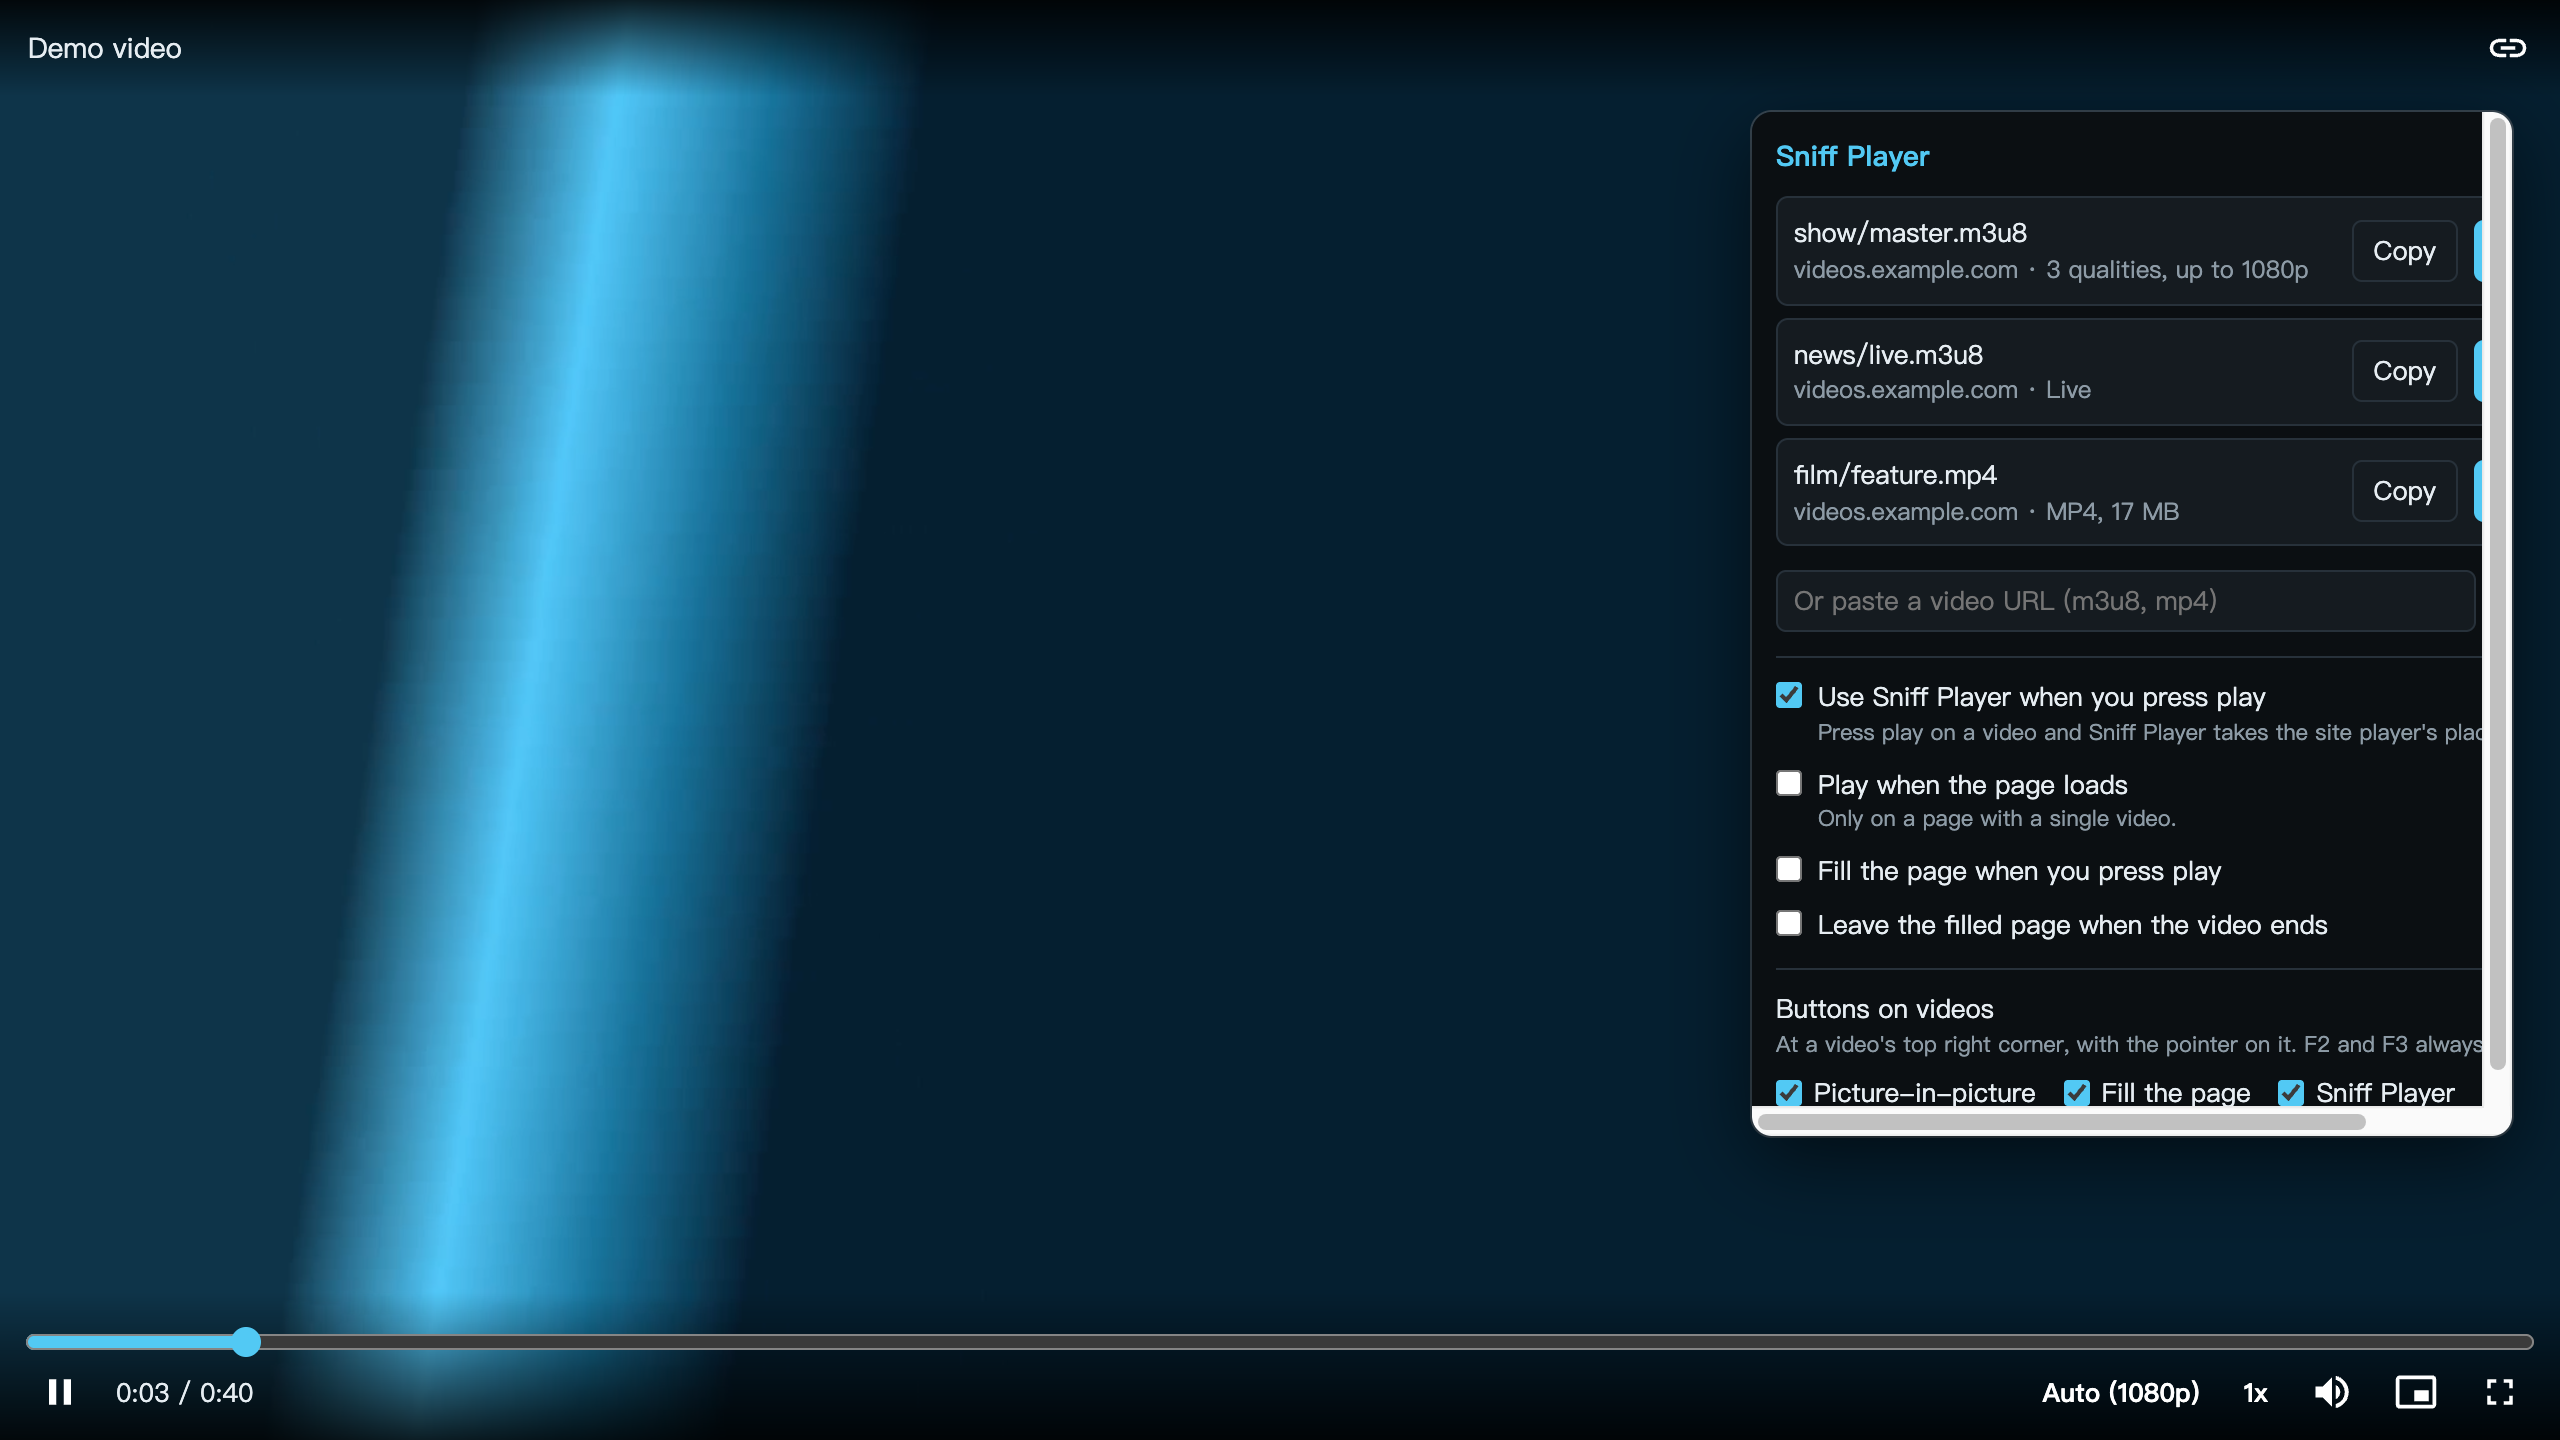
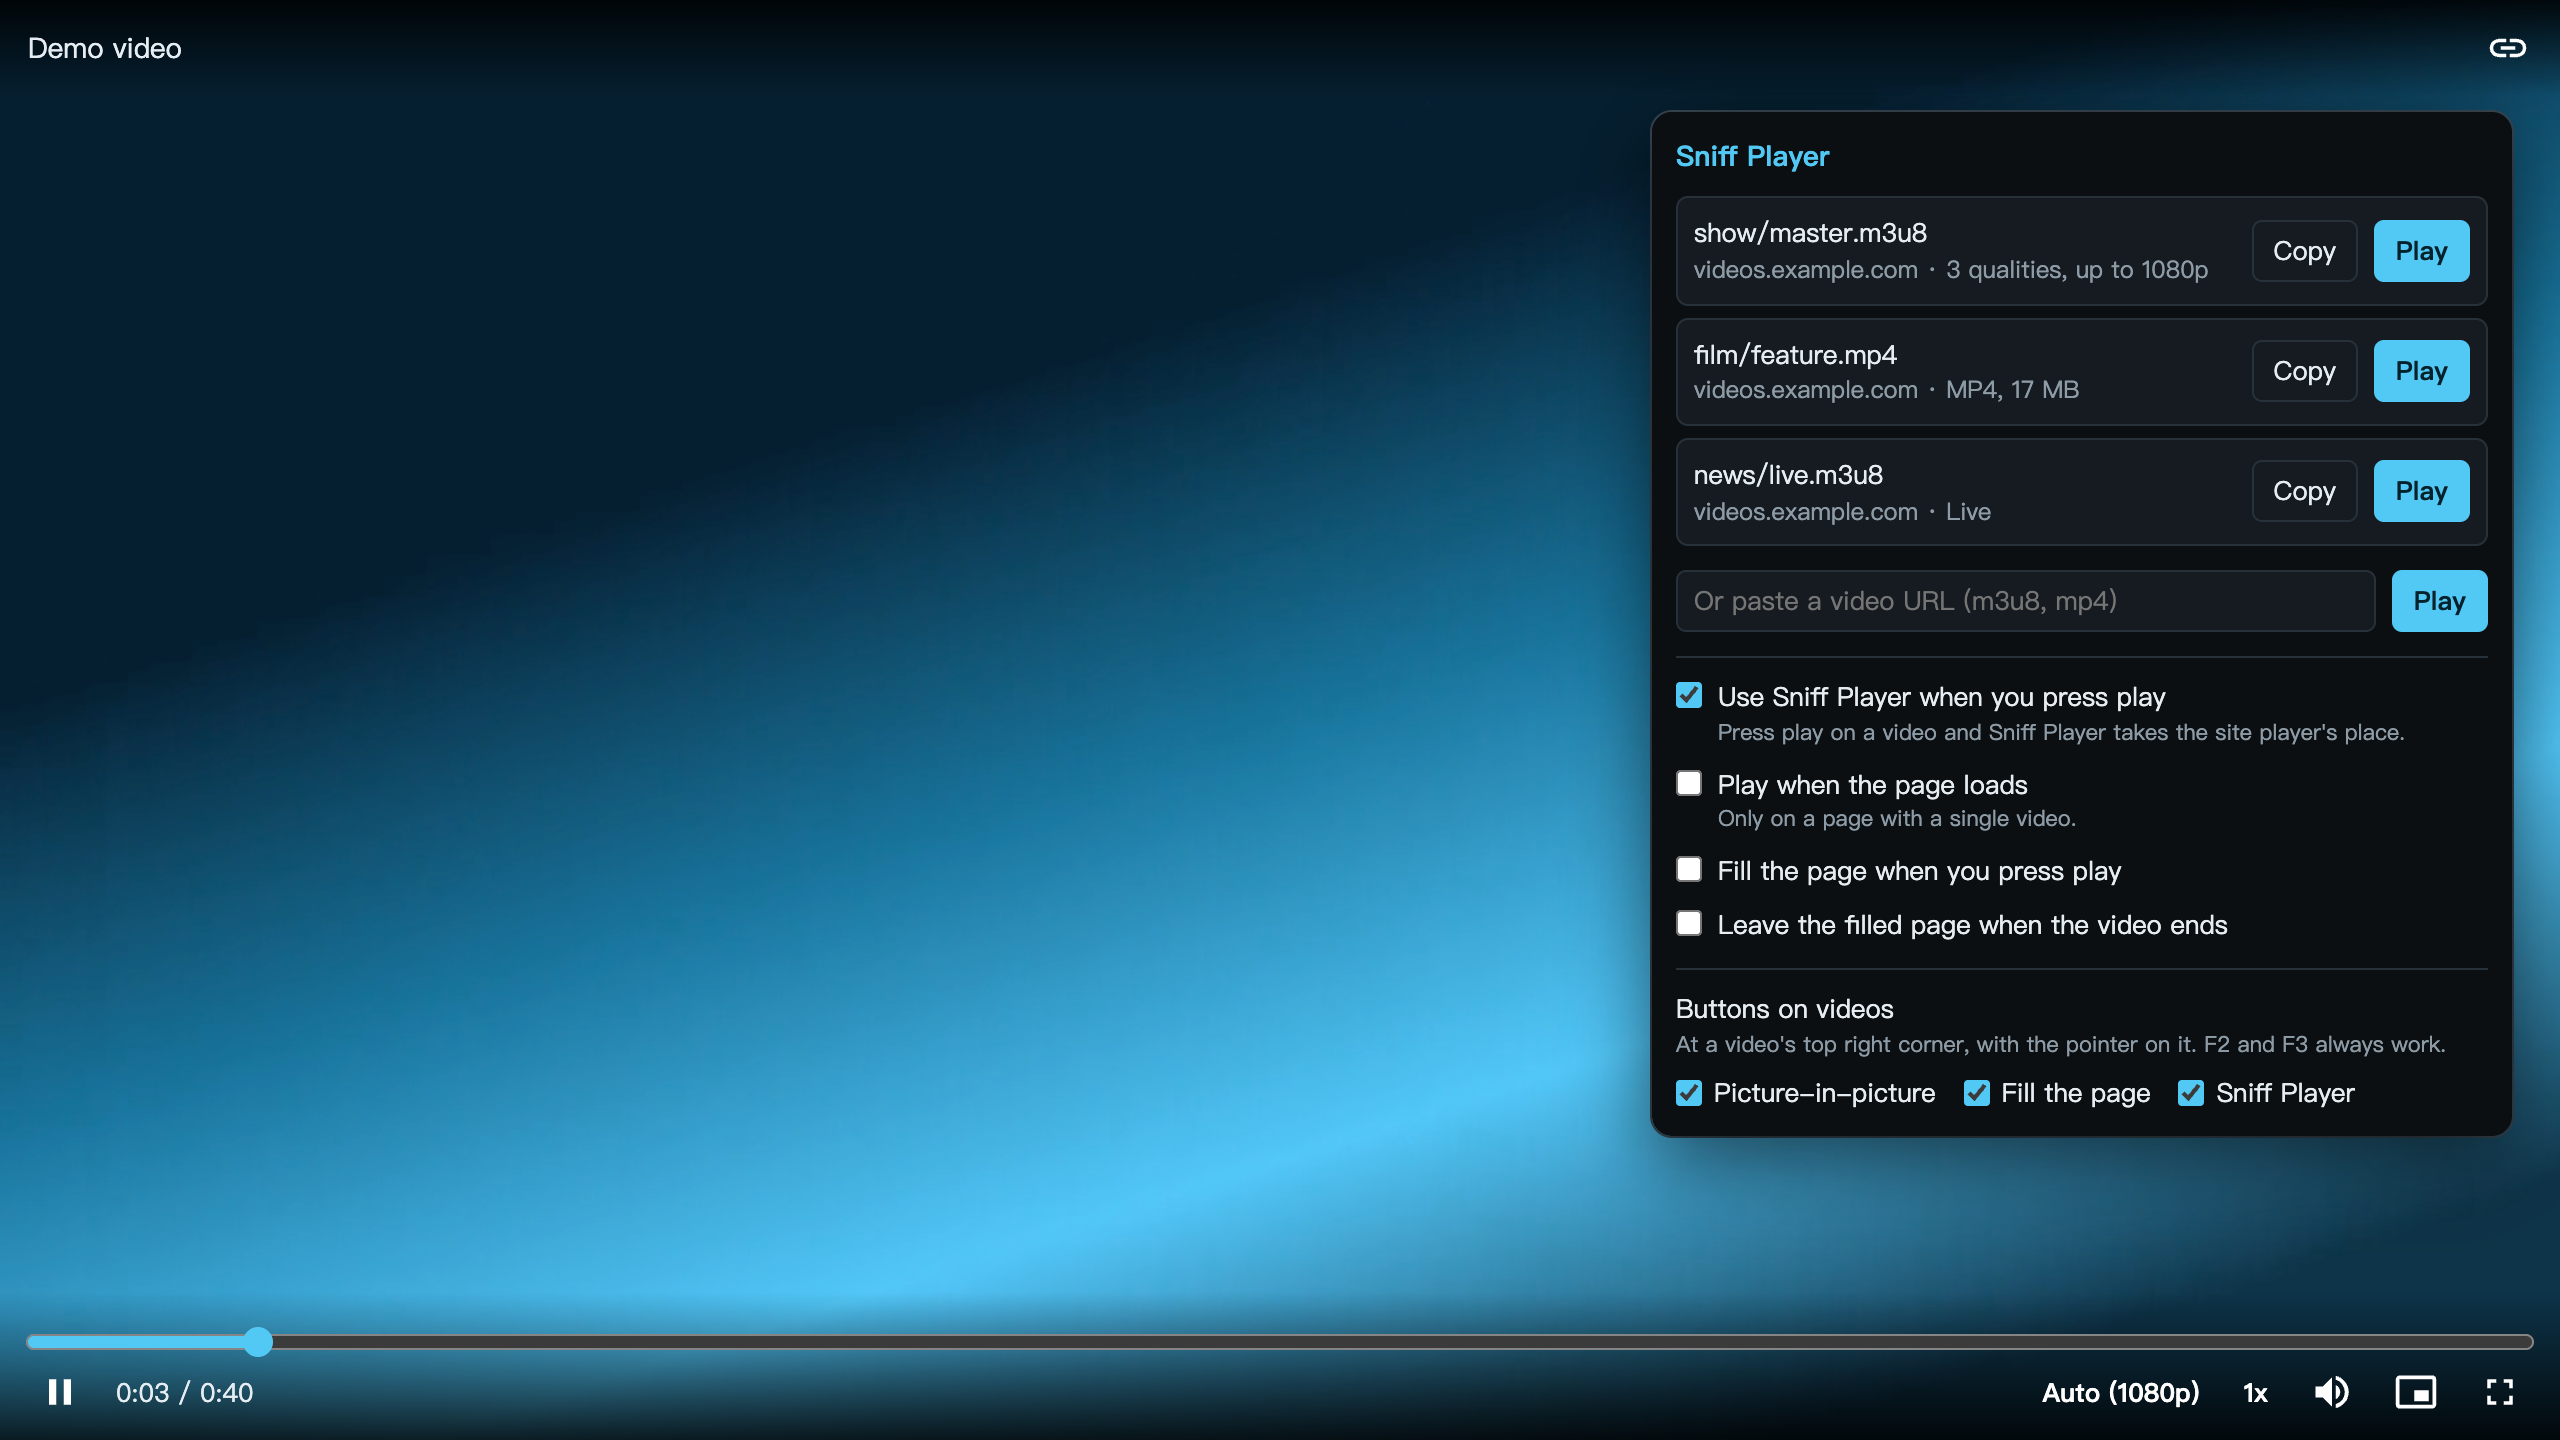
Screenshots: the popup at its new 430 px width, which the 380 px shots had cut off with scroll bars: README*, .github/assets/screens

diff --git a/README.md b/README.md
@@ -57,7 +57,7 @@ It needs Chrome 116 or later.
 3. Press **Play**, or **Copy** to take the URL.
 
 <p align="center">
-  <img src=".github/assets/screens/popup-en.png" width="380" alt="The list of detected videos: an HLS video with three qualities, a video file with its size, and a live stream">
+  <img src=".github/assets/screens/popup-en.png" width="430" alt="The list of detected videos: an HLS video with three qualities, a video file with its size, and a live stream">
 </p>
 
 In the player: <kbd>Space</kbd> or <kbd>K</kbd> plays and pauses, <kbd>←</kbd> <kbd>→</kbd> skip 5 seconds, <kbd>M</kbd> mutes, <kbd>F</kbd> goes full screen.

diff --git a/README.zh-TW.md b/README.zh-TW.md
@@ -57,7 +57,7 @@
 3. 按**播放**，或按**複製**取得網址。
 
 <p align="center">
-  <img src=".github/assets/screens/popup-zh-TW.png" width="380" alt="偵測到的影片清單：有三種畫質的 HLS 影片、標示大小的影片檔，以及一個直播">
+  <img src=".github/assets/screens/popup-zh-TW.png" width="430" alt="偵測到的影片清單：有三種畫質的 HLS 影片、標示大小的影片檔，以及一個直播">
 </p>
 
 在播放器裡：<kbd>空白鍵</kbd>或 <kbd>K</kbd> 播放暫停，<kbd>←</kbd> <kbd>→</kbd> 前後跳 5 秒，<kbd>M</kbd> 靜音，<kbd>F</kbd> 全螢幕。
